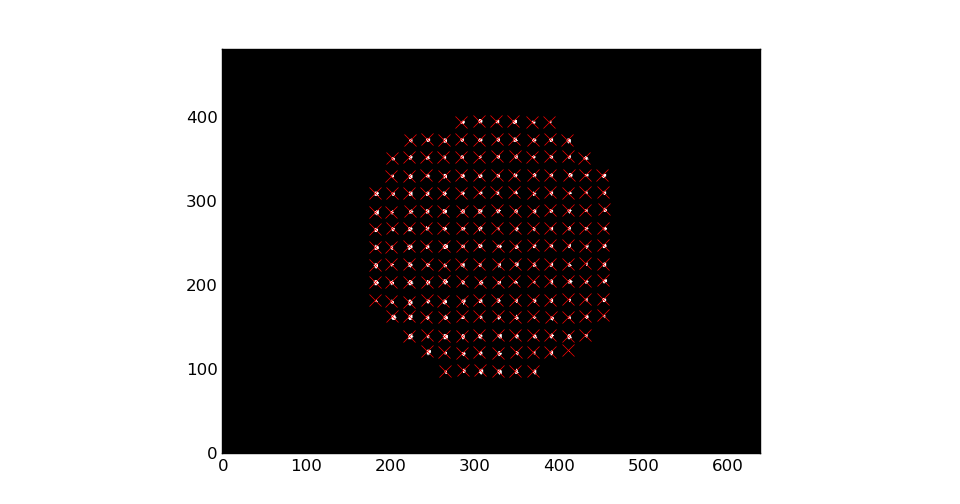
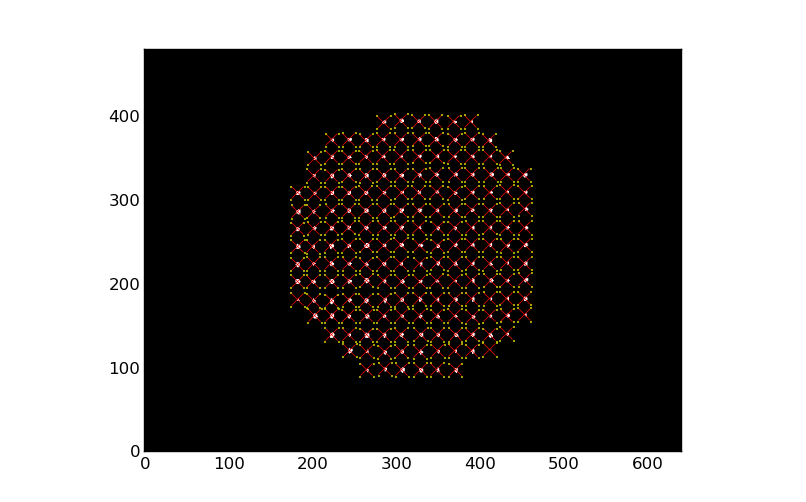
Custom: marksize modifications getAlignment: debug log , subap useful information subapAlignmentCustom: makeup mainly

diff --git a/scripts/Custom.py b/scripts/Custom.py
@@ -5,6 +5,8 @@ import FITS
 import numpy as np
 from skimage.morphology import label
 from skimage.measure import regionprops
+import matplotlib.pyplot as plt
+import pylab
 
 def im2bw(image, threshold):
     '''
@@ -23,16 +25,49 @@ def im2bw(image, threshold):
 
 
 tr = 0.42
+side = 8 #pixels
 print tr
-
+print 
 data = FITS.Read('myfits.fits')
 headers = data[0]
 raw_data = data[1]
-
+###############################################
+print "Print FIT data"
+print headers["parsed"]
+#npxlx =np.array(eval(data[0]["parsed"]["npxlx"]))
+#npxly =np.array(eval(data[0]["parsed"]["npxly"]))
+#nsub  =np.array(eval(data[0]["parsed"]["nsub"]))
+#print npxlx
+#print npxly
+#print nsub
+##############################################
 raw_data = im2bw(raw_data, tr)
 label_img = label(raw_data)
 props = regionprops(label_img, ['Centroid'])
-#for i in props:
-#    x0 = i['Centroid'][0]
-#    y0 = i['Centroid'][1]
-#print len(props)
+plt.figure(num=1, figsize=(8, 6), dpi=150, facecolor='w', edgecolor='k')
+for i in props:
+    x0 = i['Centroid'][0]
+    y0 = i['Centroid'][1]
+    
+    px = x0 + side
+    py = y0 + side
+    
+    px = x0 + side
+    my = y0 - side
+
+    mx = x0 - side
+    py = y0 + side
+
+    mx = x0 - side
+    my = y0 - side
+
+    plt.plot(y0,x0,'xr',markersize=8)
+
+    plt.plot(py,px,'.y',markersize=2)
+    plt.plot(py,mx,'.y',markersize=2)
+    plt.plot(my,px,'.y',markersize=2)
+    plt.plot(my,mx,'.y',markersize=2)
+plt.imshow(raw_data, cmap=pylab.gray())
+plt.gca().invert_yaxis()
+plt.show()
+print len(props)

diff --git a/scripts/getAlignment.py b/scripts/getAlignment.py
@@ -6,10 +6,29 @@ import controlCorba
 #darcmagic get -name=subapLocation --prefix=main
 #darcmagic get -name=subapFlag --prefix=main
 #darcmagic get -name=bgImage --prefix=main
-
+initial = numpy.zeros((15,15), numpy.int32)
+print "################"
+print initial
+print "################"
+initial = initial.reshape(225)
+print initial
+print "################"
 c=controlCorba.controlClient("main")
 subapflag = c.Get("subapFlag")
-#print subapflag
+print subapflag
+print type(subapflag)
+print subapflag.dtype
+c.Set("subapFlag",initial,com="",swap=1,check=1,copy=1)
+print "########### despues del set ##"
+subapflag = c.Get("subapFlag")
+print "----------------"
+pxl = c.Get("pxlCnt")
+print pxl
+print type(pxl)
+print pxl.size
+print pxl.shape
+print pxl.reshape(11,11)
+print "----------------"
 count = 1 
 for i in range(0,len(subapflag)):
     if count == 11:

diff --git a/scripts/subapAlignmentCustom.py b/scripts/subapAlignmentCustom.py
@@ -303,7 +303,7 @@ class Align:
                                          
         self.arr[:]=0xff
         red=(0xff,0,0)
-        green=(0,0xff,0)
+        green=(0,0,0xff)
         for i in range(subapLocation.shape[0]):
             if subflag[i]:
                 s=subapLocation[i]
